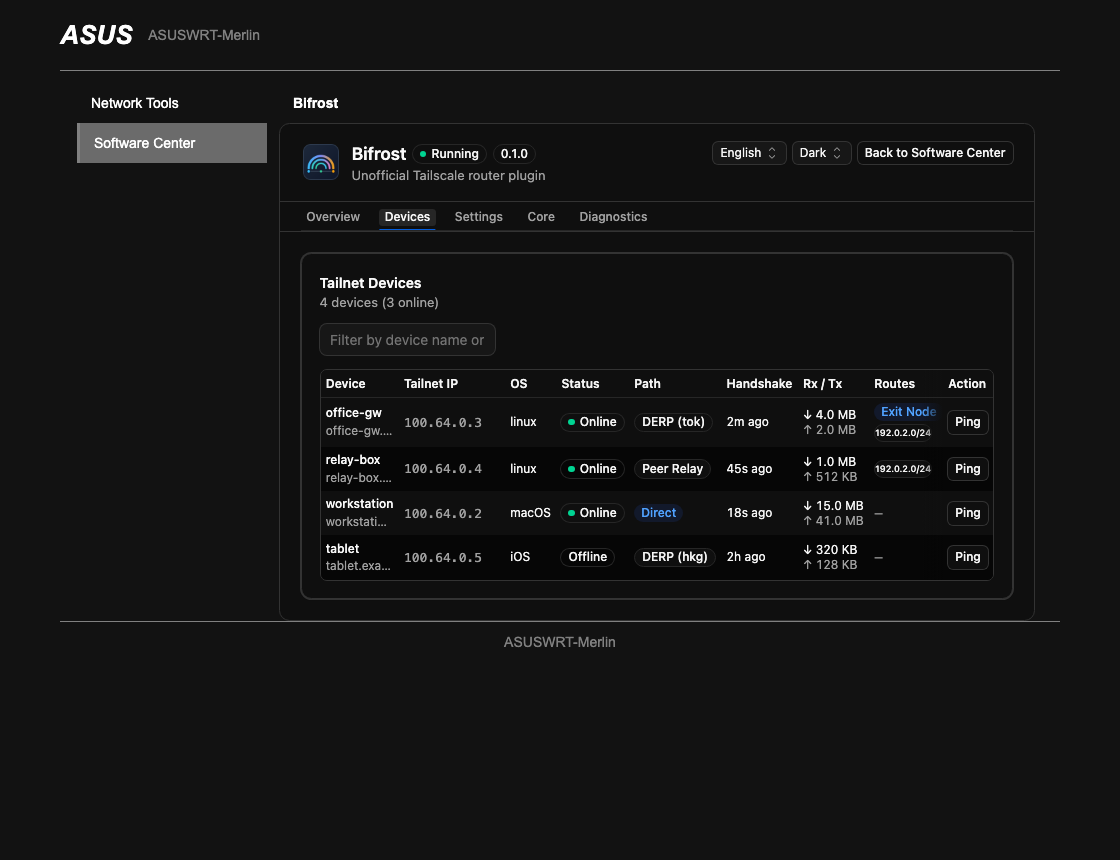
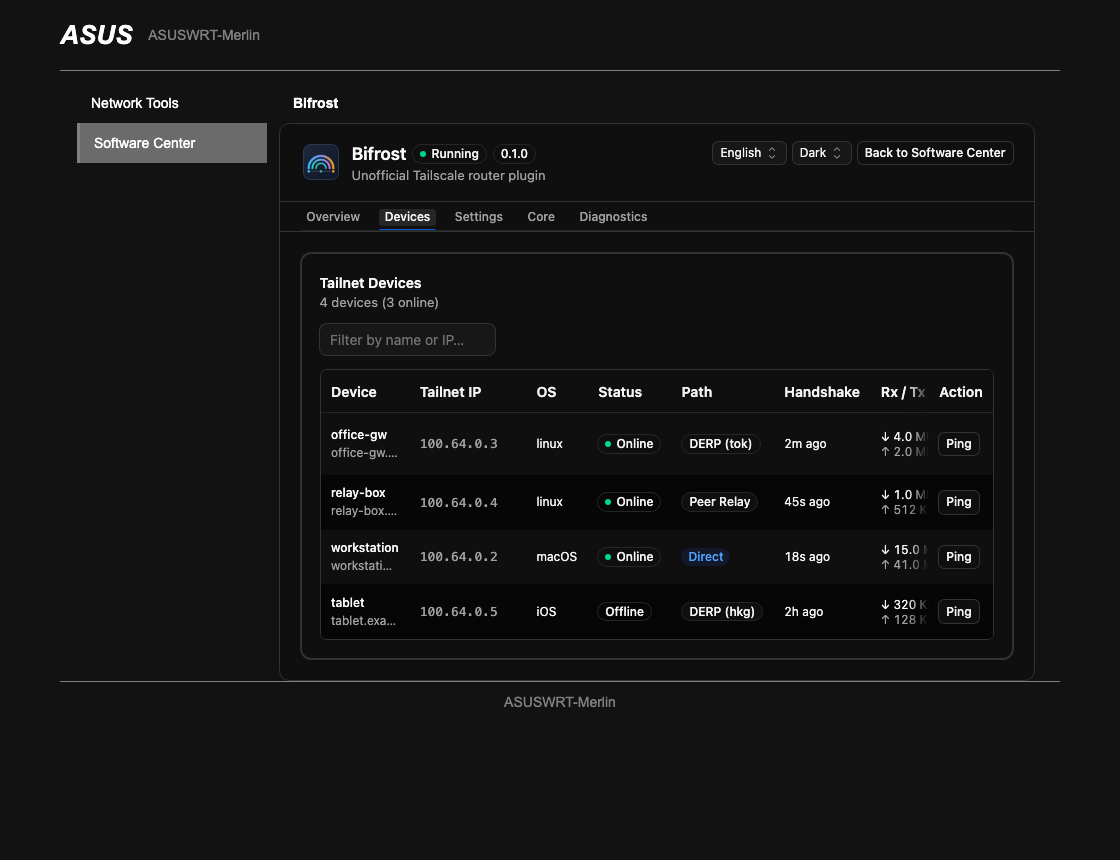
Keep the English devices table at the normal text size
The English-only compact styling shrank route badges to 9 px and still
clipped them. The English table now scrolls like the Chinese one, and a
shorter filter placeholder fits the input.

diff --git a/web/src/pages/DevicesPage.tsx b/web/src/pages/DevicesPage.tsx
@@ -21,7 +21,7 @@ interface RowPingState {
 }
 
 export function DevicesPage() {
-  const { lang, status, t, tError, initializing } = useApp();
+  const { status, t, tError, initializing } = useApp();
   const [filter, setFilter] = useState("");
   const [pings, setPings] = useState<Record<string, RowPingState>>({});
 
@@ -44,8 +44,6 @@ export function DevicesPage() {
   const visible = filtered.slice(0, MAX_RENDERED_PEERS);
   const truncated = filtered.length > MAX_RENDERED_PEERS;
   const nowSec = status?.time ?? Math.floor(Date.now() / 1000);
-  const tableCellClass = lang === "en" ? "!px-1.5 !py-1.5" : "px-2.5 py-2";
-  const tableHeadClass = `${tableCellClass} whitespace-nowrap${lang === "en" ? " !text-xs" : ""}`;
 
   function renderPath(path: PeerInfo["path"], relay: string) {
     if (path === "direct") return t("devices.path.direct");
@@ -111,15 +109,15 @@ export function DevicesPage() {
             <Table className="text-xs">
               <Table.Header>
                 <Table.Row>
-                  <Table.Head className={tableHeadClass}>{t("devices.col.name")}</Table.Head>
-                  <Table.Head className={tableHeadClass}>{t("devices.col.ip")}</Table.Head>
-                  <Table.Head className={tableHeadClass}>{t("devices.col.os")}</Table.Head>
-                  <Table.Head className={tableHeadClass}>{t("devices.col.status")}</Table.Head>
-                  <Table.Head className={tableHeadClass}>{t("devices.col.path")}</Table.Head>
-                  <Table.Head className={tableHeadClass}>{t("devices.col.handshake")}</Table.Head>
-                  <Table.Head className={tableHeadClass}>{t("devices.col.traffic")}</Table.Head>
-                  <Table.Head className={tableHeadClass}>{t("devices.col.routes")}</Table.Head>
-                  <Table.Head className={tableHeadClass} sticky="right">
+                  <Table.Head className="px-2.5 py-2 whitespace-nowrap">{t("devices.col.name")}</Table.Head>
+                  <Table.Head className="px-2.5 py-2 whitespace-nowrap">{t("devices.col.ip")}</Table.Head>
+                  <Table.Head className="px-2.5 py-2 whitespace-nowrap">{t("devices.col.os")}</Table.Head>
+                  <Table.Head className="px-2.5 py-2 whitespace-nowrap">{t("devices.col.status")}</Table.Head>
+                  <Table.Head className="px-2.5 py-2 whitespace-nowrap">{t("devices.col.path")}</Table.Head>
+                  <Table.Head className="px-2.5 py-2 whitespace-nowrap">{t("devices.col.handshake")}</Table.Head>
+                  <Table.Head className="px-2.5 py-2 whitespace-nowrap">{t("devices.col.traffic")}</Table.Head>
+                  <Table.Head className="px-2.5 py-2 whitespace-nowrap">{t("devices.col.routes")}</Table.Head>
+                  <Table.Head className="px-2.5 py-2 whitespace-nowrap" sticky="right">
                     {t("devices.col.action")}
                   </Table.Head>
                 </Table.Row>
@@ -129,7 +127,7 @@ export function DevicesPage() {
                   const ping = pings[peer.ip];
                   return (
                     <Table.Row key={peer.ip} className="group">
-                      <Table.Cell className={tableCellClass}>
+                      <Table.Cell className="px-2.5 py-2">
                         <div className="grid min-w-0 gap-0.5">
                           <span data-raw-value="true" className="font-medium text-kumo-strong">
                             {peer.name}
@@ -144,38 +142,38 @@ export function DevicesPage() {
                           )}
                         </div>
                       </Table.Cell>
-                      <Table.Cell className={`${tableCellClass} whitespace-nowrap`}>
+                      <Table.Cell className="px-2.5 py-2 whitespace-nowrap">
                         <CopyInline value={peer.ip} />
                       </Table.Cell>
-                      <Table.Cell className={`${tableCellClass} whitespace-nowrap`}>
+                      <Table.Cell className="px-2.5 py-2 whitespace-nowrap">
                         <span data-raw-value="true">{peer.os || "—"}</span>
                       </Table.Cell>
-                      <Table.Cell className={`${tableCellClass} whitespace-nowrap`}>
+                      <Table.Cell className="px-2.5 py-2 whitespace-nowrap">
                         <Badge appearance="dot" variant={peer.online ? "success" : "secondary"}>
                           {peer.online ? t("devices.status.online") : t("devices.status.offline")}
                         </Badge>
                       </Table.Cell>
-                      <Table.Cell className={`${tableCellClass} whitespace-nowrap`}>
+                      <Table.Cell className="px-2.5 py-2 whitespace-nowrap">
                         <Badge variant={peer.path === "direct" ? "info" : "outline"}>
                           {renderPath(peer.path, peer.relay)}
                         </Badge>
                       </Table.Cell>
-                      <Table.Cell className={`${tableCellClass} whitespace-nowrap tabular-nums`}>
+                      <Table.Cell className="px-2.5 py-2 whitespace-nowrap tabular-nums">
                         {formatHandshakeAge(peer.last_handshake, nowSec, t)}
                       </Table.Cell>
-                      <Table.Cell className={`${tableCellClass} whitespace-nowrap tabular-nums`}>
+                      <Table.Cell className="px-2.5 py-2 whitespace-nowrap tabular-nums">
                         <div className="grid leading-tight">
                           <span>↓ {formatBytes(peer.rx)}</span>
                           <span className="text-kumo-subtle">↑ {formatBytes(peer.tx)}</span>
                         </div>
                       </Table.Cell>
-                      <Table.Cell className={`${tableCellClass}${lang === "en" ? " text-[10px]" : ""}`}>
+                      <Table.Cell className="px-2.5 py-2">
                         <div className="flex flex-wrap gap-1">
                           {peer.exit_node_option && (
                             <Badge variant="info">{t("devices.exitNodeBadge")}</Badge>
                           )}
                           {peer.routes.map((cidr) => (
-                            <Badge key={cidr} variant="outline" className={lang === "en" ? "!px-0 text-[9px]" : undefined}>
+                            <Badge key={cidr} variant="outline">
                               {cidr}
                             </Badge>
                           ))}
@@ -184,7 +182,7 @@ export function DevicesPage() {
                           )}
                         </div>
                       </Table.Cell>
-                      <Table.Cell className={tableCellClass} sticky="right">
+                      <Table.Cell className="px-2.5 py-2" sticky="right">
                         <div className="grid gap-1">
                           <Button
                             size="sm"

diff --git a/web/src/i18n/en.ts b/web/src/i18n/en.ts
@@ -173,7 +173,7 @@ export const en: Record<MessageKey, string> = {
 
   // Devices page (PLAN 13.4)
   "devices.title": "Tailnet Devices",
-  "devices.filterPlaceholder": "Filter by device name or IP…",
+  "devices.filterPlaceholder": "Filter by name or IP…",
   "devices.count": "{total} devices ({online} online)",
   "devices.limitNotice": "Showing first {shown} of {total} devices. Use the filter to locate others.",
   "devices.emptyTitle": "No devices",
